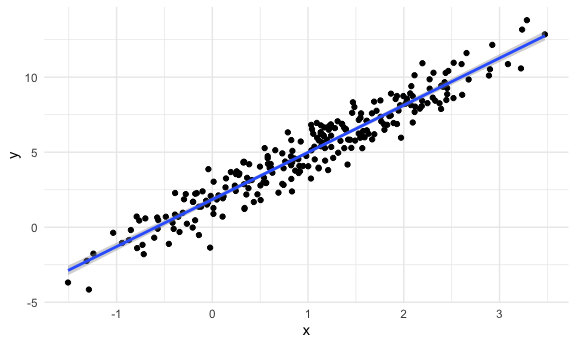
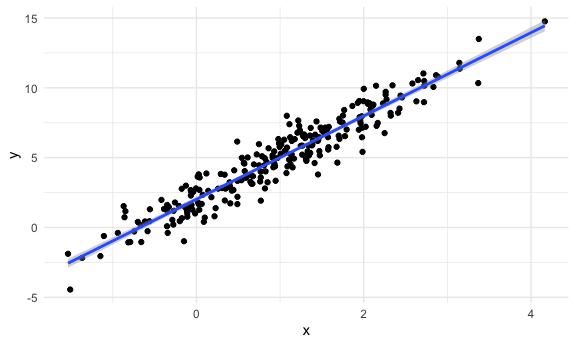
bootstrap and analyse results.

diff --git a/bootstrapping.md b/bootstrapping.md
@@ -98,8 +98,8 @@ lm(y ~ x, data = sim_df_const) %>%  broom::tidy()
     ## # A tibble: 2 x 5
     ##   term        estimate std.error statistic   p.value
     ##   <chr>          <dbl>     <dbl>     <dbl>     <dbl>
-    ## 1 (Intercept)     1.85    0.0850      21.7 2.10e- 59
-    ## 2 x               3.14    0.0600      52.3 5.60e-136
+    ## 1 (Intercept)     2.02    0.0845      23.9 2.09e- 66
+    ## 2 x               2.98    0.0604      49.4 2.61e-130
 
 ``` r
 lm(y ~ x, data = sim_df_nonconst) %>%  broom::tidy()
@@ -108,8 +108,8 @@ lm(y ~ x, data = sim_df_nonconst) %>%  broom::tidy()
     ## # A tibble: 2 x 5
     ##   term        estimate std.error statistic   p.value
     ##   <chr>          <dbl>     <dbl>     <dbl>     <dbl>
-    ## 1 (Intercept)     2.02    0.0903      22.4 1.91e- 61
-    ## 2 x               3.08    0.0637      48.3 3.08e-128
+    ## 1 (Intercept)     1.99    0.0857      23.2 3.41e- 64
+    ## 2 x               3.00    0.0613      48.9 2.00e-129
 
 Step 2 - bootstrap \#\# Draw one bootstrap sample
 
@@ -147,5 +147,105 @@ boot_sample(sim_df_nonconst) %>%
     ## # A tibble: 2 x 5
     ##   term        estimate std.error statistic   p.value
     ##   <chr>          <dbl>     <dbl>     <dbl>     <dbl>
-    ## 1 (Intercept)     2.00    0.0844      23.7 1.12e- 65
-    ## 2 x               3.17    0.0598      53.0 2.87e-137
+    ## 1 (Intercept)     1.94    0.0823      23.6 2.10e- 65
+    ## 2 x               3.02    0.0603      50.1 8.15e-132
+
+## Many samples and analysis
+
+``` r
+boot_straps = 
+  tibble(
+    strap_number = 1:1000,
+    strap_sample = rerun(1000, boot_sample(sim_df_nonconst))
+  )
+```
+
+Running analysis - fit regression to each dataframe
+
+``` r
+boot_results = 
+  boot_straps %>% 
+  mutate(
+    models = map(.x = strap_sample, ~lm(y ~ x, data = .x)),
+    results = map(models, broom::tidy)
+  ) %>% 
+  select(strap_number, results) %>% 
+  unnest(results)
+```
+
+We have intercept and slope for 1 to 1000
+
+``` r
+boot_results %>% 
+ group_by(term) %>% 
+  summarize(
+    mean_est = mean(estimate),
+    sd_est = sd(estimate)
+  )
+```
+
+    ## `summarise()` ungrouping output (override with `.groups` argument)
+
+    ## # A tibble: 2 x 3
+    ##   term        mean_est sd_est
+    ##   <chr>          <dbl>  <dbl>
+    ## 1 (Intercept)     1.99 0.0591
+    ## 2 x               3.00 0.0811
+
+look at the distributions
+
+``` r
+boot_results %>% 
+  filter(term == "x") %>% 
+  ggplot(aes(x = estimate)) +
+  geom_density()
+```
+
+<img src="bootstrapping_files/figure-gfm/unnamed-chunk-11-1.png" width="90%" />
+
+Construst a bootstrap CI
+
+``` r
+boot_results %>% 
+  group_by(term) %>% 
+  summarize(
+    ci_lower = quantile(estimate, 0.025),
+    ci_upper = quantile(estimate, 0.975)
+  )
+```
+
+    ## `summarise()` ungrouping output (override with `.groups` argument)
+
+    ## # A tibble: 2 x 3
+    ##   term        ci_lower ci_upper
+    ##   <chr>          <dbl>    <dbl>
+    ## 1 (Intercept)     1.87     2.10
+    ## 2 x               2.85     3.16
+
+## Bootstrap using modelr package
+
+Automate drawing repeated sampling and analysing them
+
+``` r
+sim_df_nonconst %>% 
+  bootstrap(1000, id = "strap_number") %>% 
+    mutate(
+    models = map(.x = strap, ~lm(y ~ x, data = .x)),
+    results = map(models, broom::tidy)
+  ) %>% 
+  select(strap_number, results) %>% 
+  unnest(results) %>% 
+  group_by(term) %>% 
+  summarize(
+    ci_lower = quantile(estimate, 0.025),
+    ci_upper = quantile(estimate, 0.975)
+  )
+```
+
+    ## `summarise()` ungrouping output (override with `.groups` argument)
+
+    ## # A tibble: 2 x 3
+    ##   term        ci_lower ci_upper
+    ##   <chr>          <dbl>    <dbl>
+    ## 1 (Intercept)     1.88     2.10
+    ## 2 x               2.83     3.16
